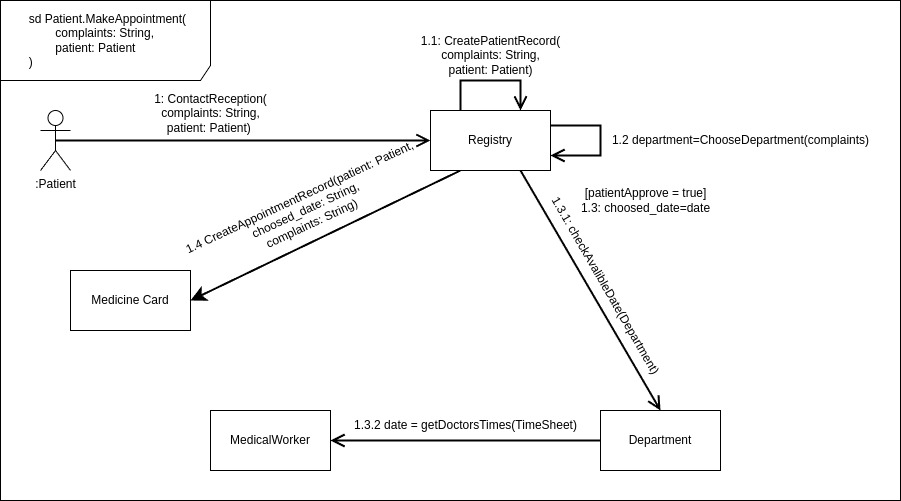
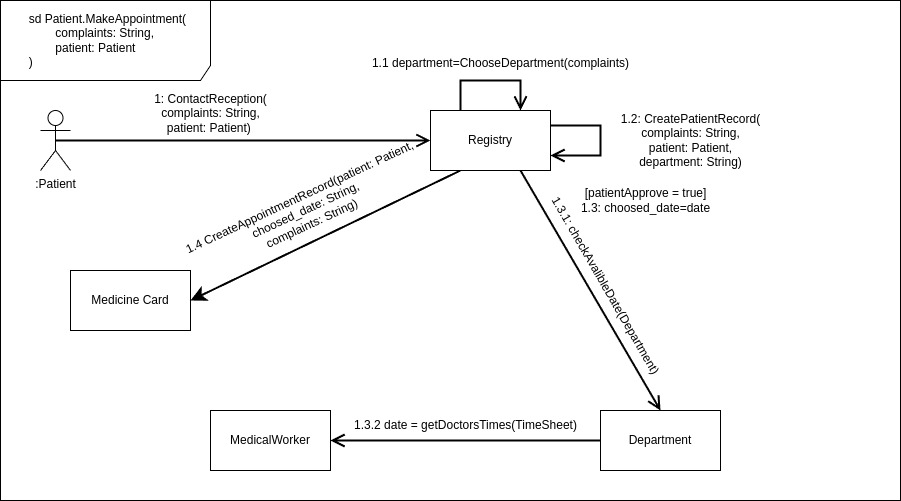
aga

Changed region(s): [[0.6837, 0.2096, 0.9634, 0.3293], [0.4351, 0.0599, 0.7148, 0.1497]]

diff --git a/lab1/README.md b/lab1/README.md
@@ -1,0 +1,71 @@
+# МПО
+## Описание сущностей
+1. Регистратура:
+   • Основное место, где пациенты записываются на прием к медицинским работникам. Регистратура управляет процессом записи и предоставляет информацию о доступных специалистах.
+
+2. Отделение:
+   • Структурное подразделение больницы, в котором работают медицинские работники. Отделения могут быть специализированными (например, хирургия, терапия и т.д.)
+
+3. Пациент:
+   • Лицо, получающее медицинские услуги. Каждый пациент имеет уникальную медицинскую карту, которая хранит всю информацию о его здоровье и лечении.
+
+4. Запись на прием:
+   • Документ, фиксирующий информацию о предстоящем визите пациента к медицинскому работнику. Запись на прием создается в регистратуре и связана с конкретным пациентом и медицинским работником.
+
+5. Медицинский работник:
+   • Сотрудник больницы, который предоставляет медицинские услуги. В данной модели выделяется две категории: врачи и медсестры.
+   
+6. Медицинская карта:
+   • Документ, содержащий полную информацию о состоянии здоровья пациента, включая историю болезни, диагнозы и проведенные лечения. Каждая медицинская карта принадлежит только одному пациенту.
+
+7. Диагноз:
+   • Описание состояния здоровья пациента, установленное медицинским работником на основе обследования и анализов. Диагноз фиксируется в медицинской карте.
+
+8. Лечение:
+   • Процесс оказания медицинских услуг пациенту на основе установленного диагноза. Лечение может включать назначение медикаментов, процедур и др.
+
+## Сама диаграмма 
+
+![[МПО.jpg]]
+
+# ДК
+## Описание взаимодействия
+- 1. Пациент контактирует с Регистратурой и передает свои жалобы.
+
+- 1.1 На основе жалоб пациента Регистратура определяет подходящее Отделение, в которое он будет направлен.
+
+- 1.2 Регистратура формирует Запись на прием к медицинскому работнику.
+
+- 1.3 Регистратура запрашивает свободное время для приема у Медицинских работников из выбранного Отделения, пока пациент не согласует время.
+
+- 1.4 После согласования времени создается запись в Медицинской карточке пациента, фиксирующая его жалобы и согласованное время приема.
+
+## Сама диаграмма
+
+![[ДК.jpg]]
+
+# ДА
+
+## Описание
+
+1. Пациент заходит на сайт регистратуры больницы, используя аккаунт госуслуг (регистрация пользователя не требуется).
+   
+2. Пациент выбирает интересующего его врача и описывает свои жалобы.
+
+3. Информация о выбранных врачах и жалобах передается в Appointment Control.
+
+4. Appointment Control запрашивает доступ к базе данных с расписанием выбранных врачей.
+
+5. Расписания передаются на страницу TicketsPage.
+
+6. Пациент просматривает доступные для приема времена.
+
+7. Пациент выбирает удобное время на странице TicketsPage.
+
+8. Выбранное время передается обратно в Appointment Control.
+
+9. Appointment Control фиксирует выбранное время приема в расписании врача.
+
+## Сама диаграмма
+
+![[ДА.jpg]]
